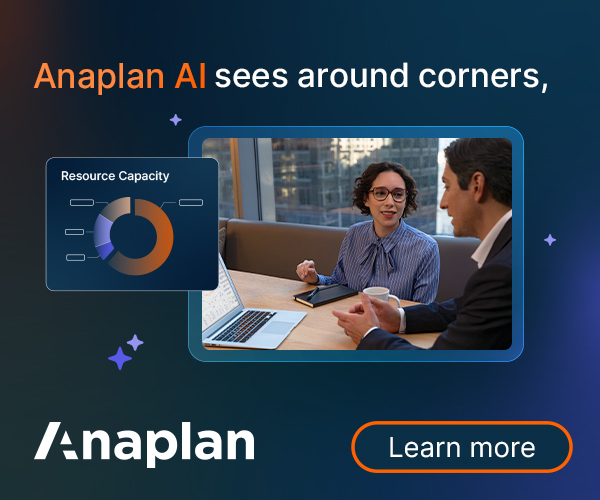
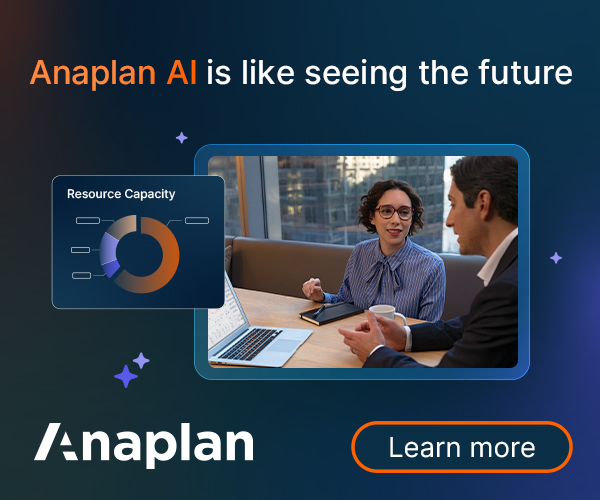
dfg

diff --git a/batch_4/Set_2/ANAAI0099B_Finance _Banner_300x250/index.html b/batch_4/Set_2/ANAAI0099B_Finance _Banner_300x250/index.html
@@ -44,18 +44,18 @@
             Anaplan&nbsp;<span class="text-1b-cut">AI</span>
         </div>
         <div id="text-1b" class="copy copy1 inter absolute">
-          sees around corners,
+          is like seeing the future
         </div>
 
         <div id="text-3" class="copy copy1 inter absolute">
-          so you can stay ahead<br>of every decision.
+          (if we were legally allowed<br>to say that).
         </div> 
 
         <div id="text-4" class="copy copy2 inter absolute">
           Right decisions,<br />
           right now<sup>®</sup>
         </div>
-      <!-- <img src="images/f3.jpg" class="full-width absolute" style="opacity: .5; z-index: 1111;" alt=""> -->
+      <img src="images/f3.jpg" class="full-width absolute" style="opacity: .5; z-index: 1111;" alt="">
       <div id="solid" class="absolute hidden"></div>
 
       <div id="bgExit"></div>

diff --git a/batch_4/Set_2/ANAAI0099B_Finance _Banner_300x250/styles.css b/batch_4/Set_2/ANAAI0099B_Finance _Banner_300x250/styles.css
@@ -101,19 +101,19 @@ html, body {
 }
 
 .copy1 {
-  left: 16px;
-  top: 23px;
-  font-size: 17.8px;
+  left: 14px;
+  top: 21px;
+  font-size: 17.3px;
   line-height: 29.5px;
 }
 #text-1b{
-  left: 107px;
+  left: 103px;
 }
 #text-3{
   top: 153px;
   left: 12px;
-  font-size: 19px;
-  line-height: 19.5px;
+  font-size: 17.6px;
+  line-height: 18px;
 }
 
 #text-4{
